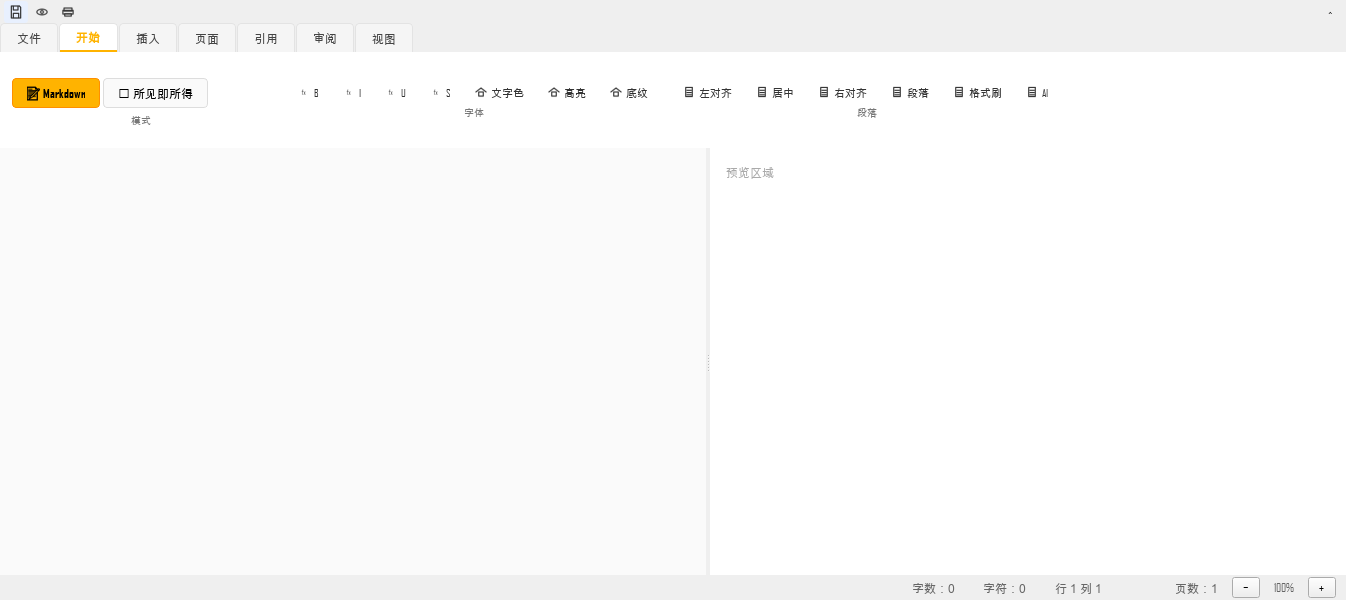
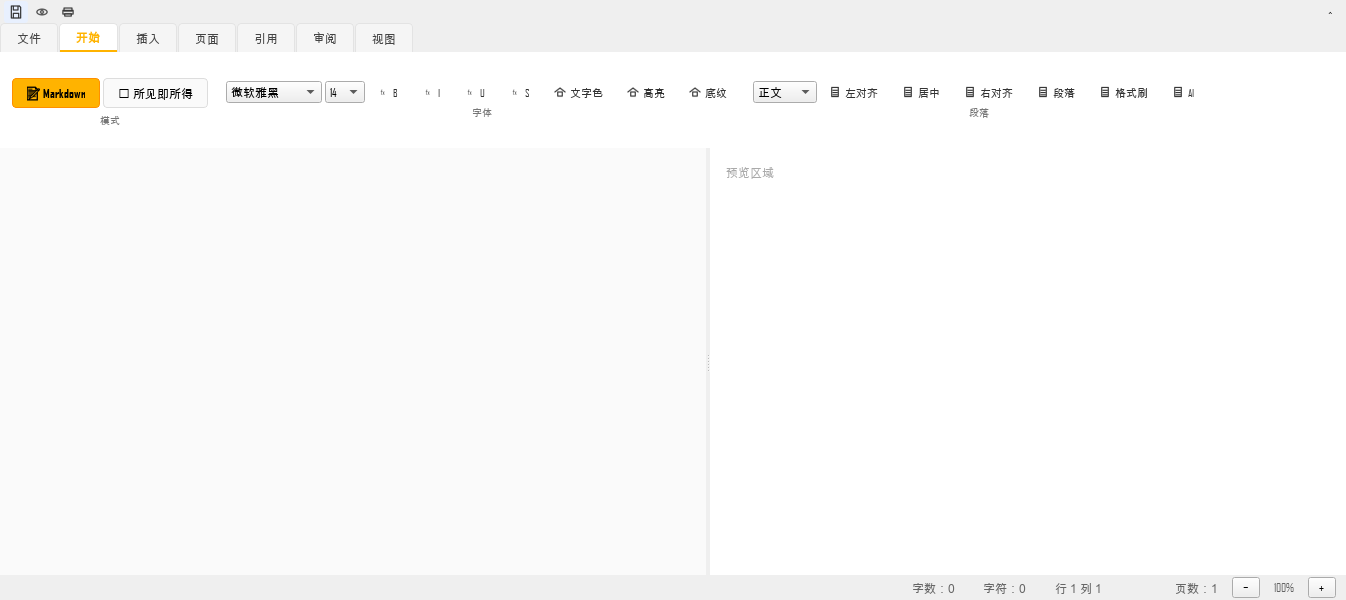
feat(ui): 文档视图隐藏主菜单，修复 WPS 下拉框隐藏

Changed region(s): [[0.3432, 0.12, 0.9049, 0.21], [0.156, 0.12, 0.312, 0.18], [0.0624, 0.18, 0.1248, 0.21]]

diff --git a/beeoffice/app.py b/beeoffice/app.py
@@ -55,7 +55,7 @@ from datetime import datetime
 from PySide6.QtWidgets import (
     QMainWindow, QStatusBar, QLabel, QMessageBox, QFileDialog,
     QDialog, QVBoxLayout, QTextEdit, QWidget, QToolBar, QToolButton, QMenu, QApplication,
-    QListWidget, QListWidgetItem, QDialogButtonBox, QAbstractItemView,
+    QListWidget, QListWidgetItem, QDialogButtonBox, QAbstractItemView, QPlainTextEdit,
 )
 from PySide6.QtGui import QAction, QKeySequence, QShortcut
 from PySide6.QtCore import Qt, QTimer, Signal, QFileSystemWatcher, QSize, QSettings
@@ -109,6 +109,8 @@ class BeeApp(QMainWindow):
         from beeoffice.menus import setup_menus
         setup_menus(self)
         self._build_quick_access_bar()
+        self.tab_manager.currentChanged.connect(self._update_main_chrome)
+        QTimer.singleShot(0, self._update_main_chrome)
 
         self.status = QStatusBar()
         self.status_label = QLabel(tr("app.ready"))
@@ -1198,6 +1200,21 @@ class BeeApp(QMainWindow):
             return
         QApplication.clipboard().setText(str(path))
         self.set_global_status(f"已复制文件路径：{path}", 3000)
+
+    def _update_main_chrome(self, *_):
+        """文档标签页使用自身 Ribbon 时隐藏主菜单和主快捷栏，扩大编辑区。"""
+        try:
+            current = self.tab_manager.currentWidget()
+        except Exception:
+            current = None
+        is_welcome = isinstance(current, QPlainTextEdit)
+        show = is_welcome or self.tab_manager.count() == 0
+        try:
+            self.menuBar().setVisible(show)
+        except Exception:
+            pass
+        if hasattr(self, "quick_toolbar"):
+            self.quick_toolbar.setVisible(show)
 
     def _apply_theme(self):
         self.setStyleSheet(Theme.get_stylesheet())

diff --git a/tests/qt/test_wps_pre_release.py b/tests/qt/test_wps_pre_release.py
@@ -1,0 +1,32 @@
+"""v5.4.7 发布前校验：WPS Ribbon 重构后关键控件仍在。"""
+from beeoffice.plugins.beewrite import BeeWriteEditor
+from beeoffice.plugins.beeshow import BeeShowView
+
+
+def test_beewrite_start_controls_visible(qtbot):
+    w = BeeWriteEditor()
+    qtbot.addWidget(w)
+    w.resize(1200, 600)
+    w.show()
+    qtbot.wait(30)
+    w._ribbon.set_current_tab(1)  # 开始
+    qtbot.wait(30)
+    for name in ("_font_combo", "_size_combo", "_head_combo"):
+        widget = getattr(w, name)
+        assert widget.isVisible(), name
+        assert widget.width() > 10
+    w.close()
+
+
+def test_beeshow_start_controls_visible(qtbot):
+    s = BeeShowView()
+    qtbot.addWidget(s)
+    s.resize(1200, 600)
+    s.show()
+    qtbot.wait(30)
+    s._ribbon.set_current_tab(1)  # 开始
+    qtbot.wait(30)
+    assert s._theme_combo.isVisible()
+    assert s._theme_combo.width() > 10
+    assert s._play_btn.isVisible()
+    s.close()

diff --git a/beeoffice/plugins/beewrite.py b/beeoffice/plugins/beewrite.py
@@ -316,6 +316,8 @@ class BeeWriteEditor(
         font_group = self._ribbon.add_group(page, "字体")
         font_group.add_widget(self._font_combo)
         font_group.add_widget(self._size_combo)
+        self._font_combo.show()
+        self._size_combo.show()
         for label, target in (
             ("B", "B"), ("I", "I"), ("U", "U"), ("S", "S"),
             ("文字色", "文字色"), ("高亮", "高亮"), ("底纹", "底纹"),
@@ -327,6 +329,7 @@ class BeeWriteEditor(
 
         para_group = self._ribbon.add_group(page, "段落")
         para_group.add_widget(self._head_combo)
+        self._head_combo.show()
         for label, target in (
             ("左对齐", "左"), ("居中", "中"), ("右对齐", "右"),
             ("段落", "段落"), ("格式刷", "格式刷"), ("AI", "AI"),

diff --git a/tests/qt/test_app.py b/tests/qt/test_app.py
@@ -225,3 +225,17 @@ def test_wps_quick_access_bar(app):
     texts = [a.text() for a in bar.actions()]
     assert "新建" in texts and "打开" in texts and "保存" in texts
     assert "文件" in [b.text() for b in bar.findChildren(QToolButton)]
+
+
+def test_main_chrome_hides_on_document_tab(app, qtbot):
+    """文档标签页应隐藏主菜单/主快捷栏，回到开始页恢复。"""
+    assert app.menuBar().isHidden() is False
+    assert app.quick_toolbar.isHidden() is False
+    app._new_beewrite()
+    qtbot.wait(30)
+    assert app.menuBar().isHidden() is True
+    assert app.quick_toolbar.isHidden() is True
+    app.tab_manager.setCurrentIndex(0)
+    qtbot.wait(30)
+    assert app.menuBar().isHidden() is False
+    assert app.quick_toolbar.isHidden() is False

diff --git a/beeoffice/plugins/beeshow_toolbar_mixin.py b/beeoffice/plugins/beeshow_toolbar_mixin.py
@@ -270,6 +270,7 @@ class ToolbarMixin:
         page = ribbon.add_tab("开始")
         theme_group = ribbon.add_group(page, "主题")
         theme_group.add_widget(self._theme_combo)
+        self._theme_combo.show()
         for label, target, icon_name in (
             ("背景", "背景", "image"),
             ("版式", "版式", "page"),
@@ -308,6 +309,7 @@ class ToolbarMixin:
 
         play_group = ribbon.add_group(page, "放映")
         play_group.add_widget(self._play_btn)
+        self._play_btn.show()
         for label, slot, icon_name in (
             ("演讲者", self._start_presenter_mode, "play"),
             ("打印", self._print_preview, "print"),

diff --git a/CHANGELOG.md b/CHANGELOG.md
@@ -28,6 +28,8 @@
 - BeeWrite/BeeShow 已有 Ribbon 复用统一图标工厂；
 - 新增边框/底纹图库与单元格边框绘制；
 - 主窗口新增打印/分享入口与快捷栏自定义（QSettings）；
+- 打开文档标签时自动隐藏主菜单和主快捷栏，扩大编辑区；
+- 修复 WPS 拆组后 BeeWrite/BeeShow 字体/字号/主题下拉框被隐藏的问题。
 - 边框图库支持上/下/左/右单边框；
 - 快捷栏“调整顺序”支持拖拽排序；
 - PDF 标注工具图标化，新增文本框/箭头/签名并支持烧录；

diff --git a/docs/BeeSheet-分类功能区-2026-11-13.md b/docs/BeeSheet-分类功能区-2026-11-13.md
@@ -104,6 +104,13 @@ BeeShow 开始页：主题 / 编辑 / 导出 / 放映 / 工具。
 
 ![BeeShow Ribbon](beeshow-wps-2026-11-13.png)
 
+## 文档视图隐藏主菜单
+
+打开 BeeWrite / BeeSheet / BeeShow 后，主菜单栏和主快捷栏自动隐藏，
+文档自身 Ribbon 顶到窗口顶部，编辑区更大；回到“开始”页恢复。
+
+![文档视图](main-window-document-wps-2026-11-13.png)
+
 ## 主窗口 WPS 入口
 
 ![主窗口快捷工具栏](main-window-wps-2026-11-13.png)
